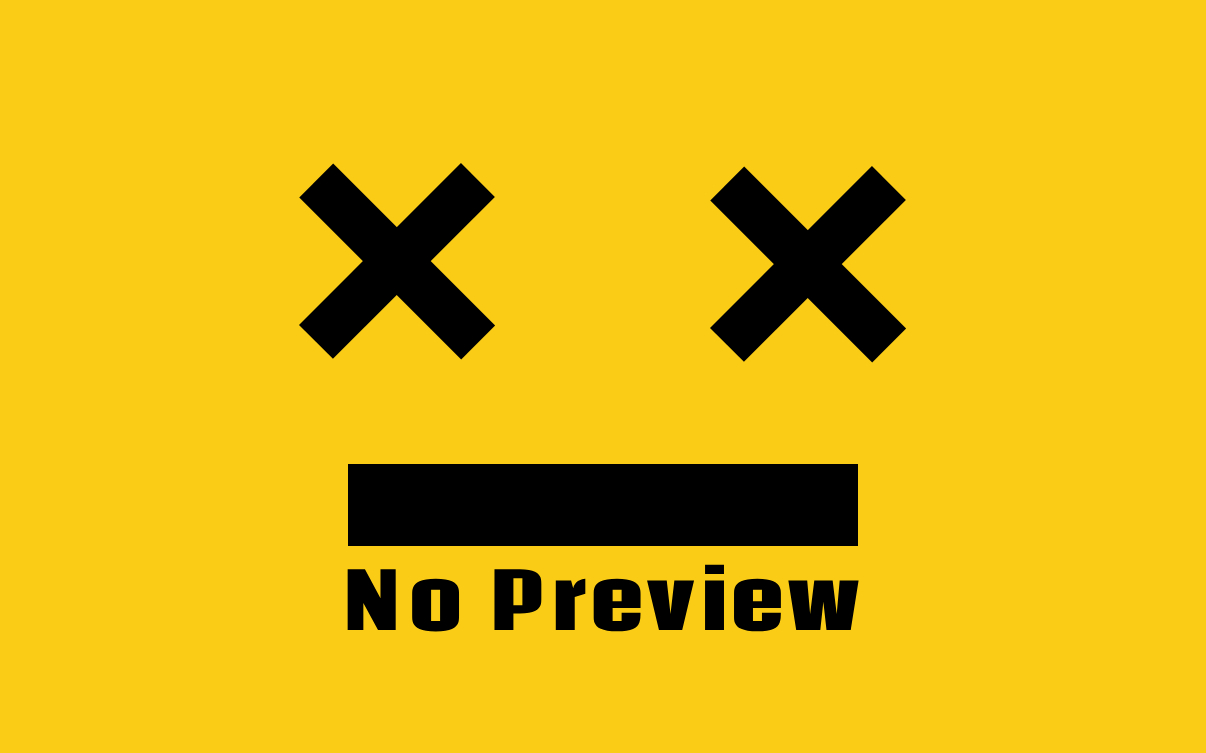
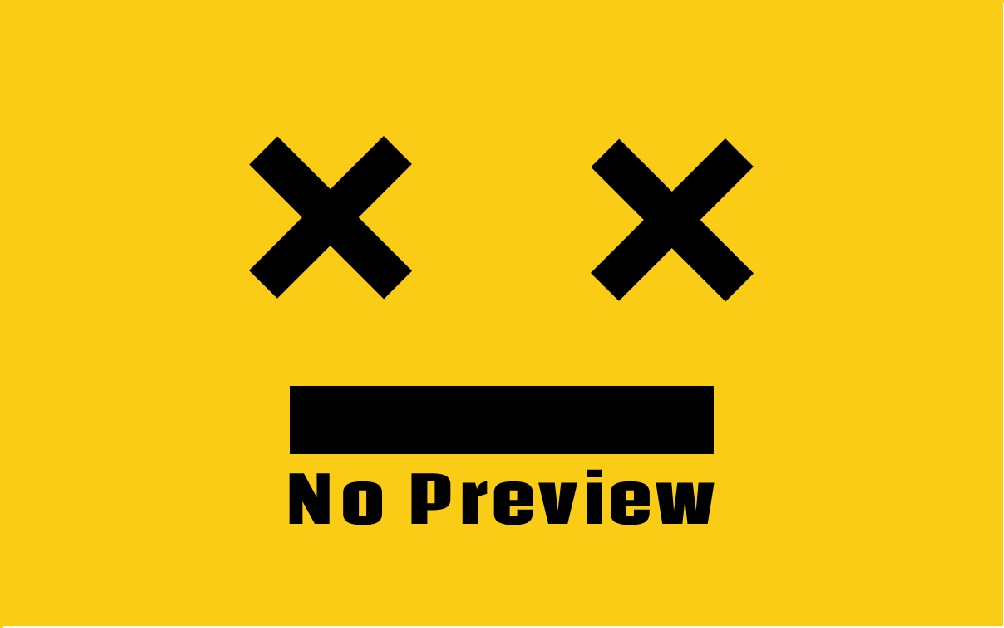
optimization

diff --git a/src/assets/assets.js b/src/assets/assets.js
@@ -1,6 +1,6 @@
-import cardform from "../assets/cardForm.png";
-import calc from "../assets/calc.png";
-import todoapp from "../assets/todoapp.png";
+import cardform from "../assets/cardForm.jpg";
+import calc from "../assets/calc.jpg";
+import todoapp from "../assets/todoapp.jpg";
 import portfolio from "../assets/port.jpg";
 import sup from "../assets/sup.jpg";
 import ip from "../assets/ip.jpg";
@@ -40,7 +40,7 @@ const projects = [
         "preview": calc
     },
     {
-        "title": "Bill Splitte",
+        "title": "Todo App",
         "tags": "React, HTML, SCSS,Vite,Git",
         "link": "https://todo-p6w6k72nt-tyubit.vercel.app/",
         "preview": todoapp
